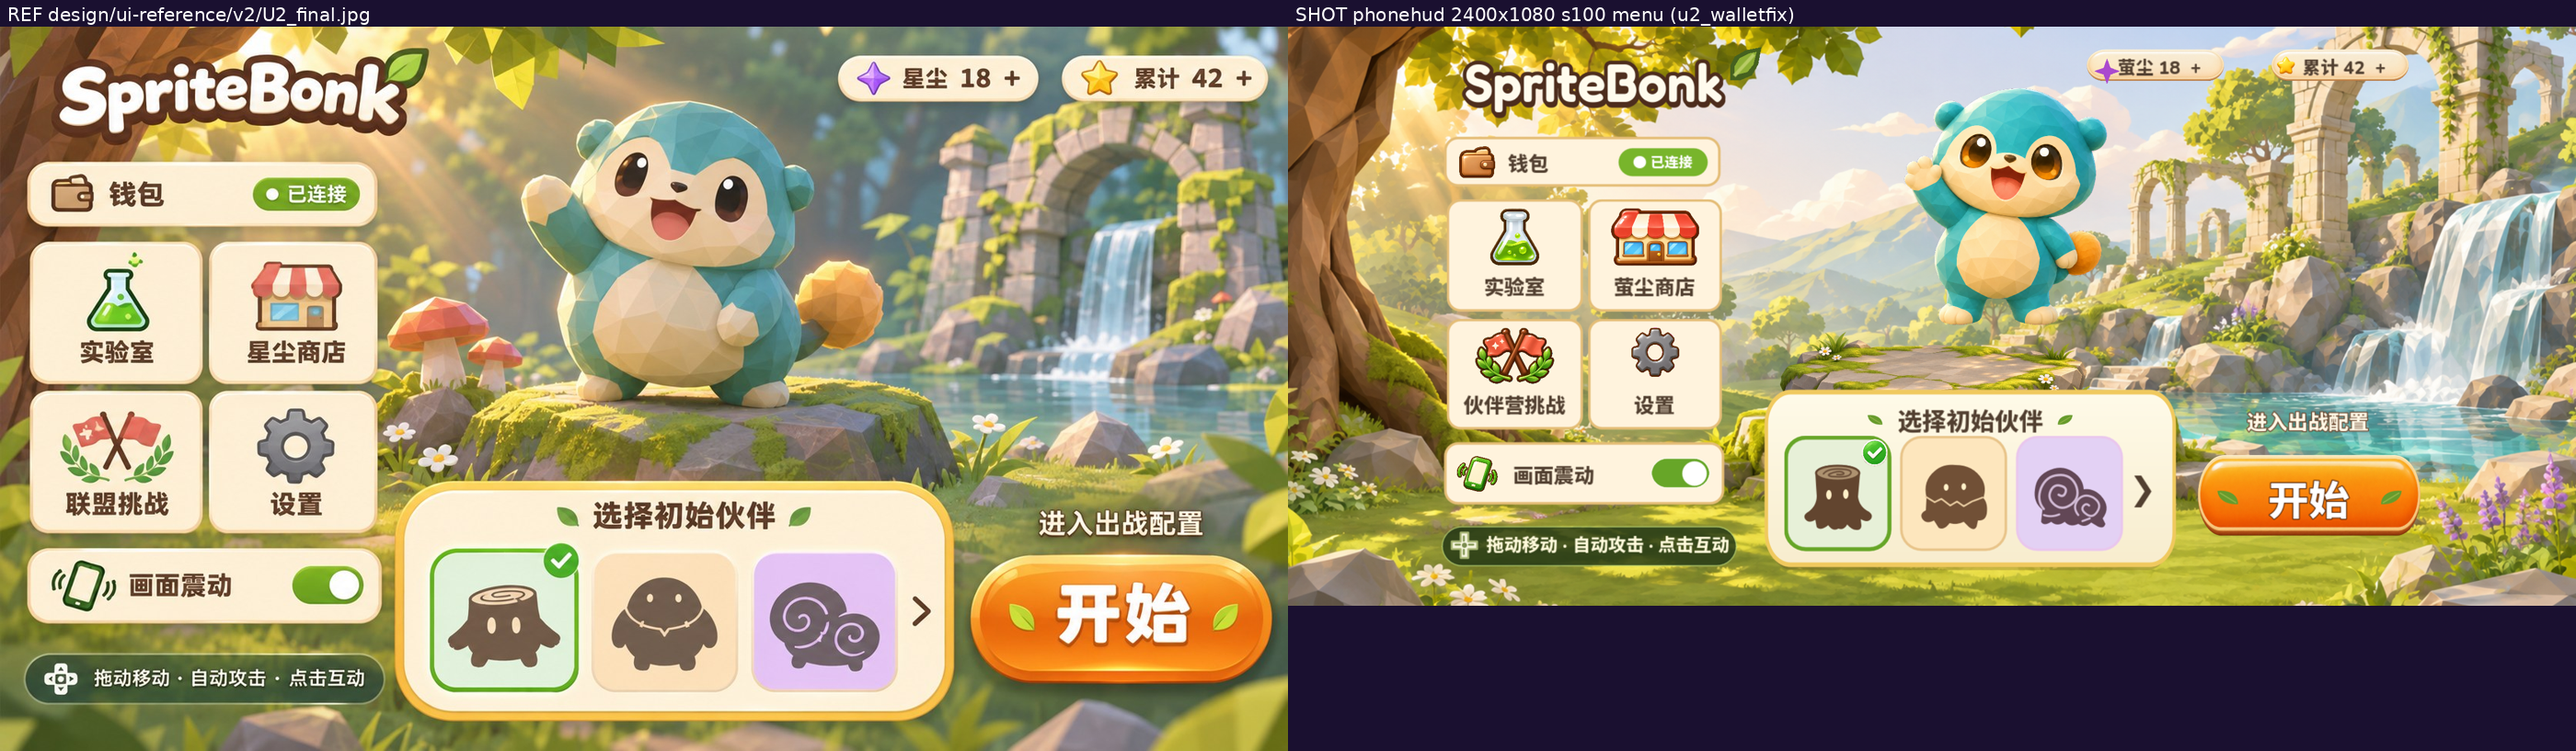
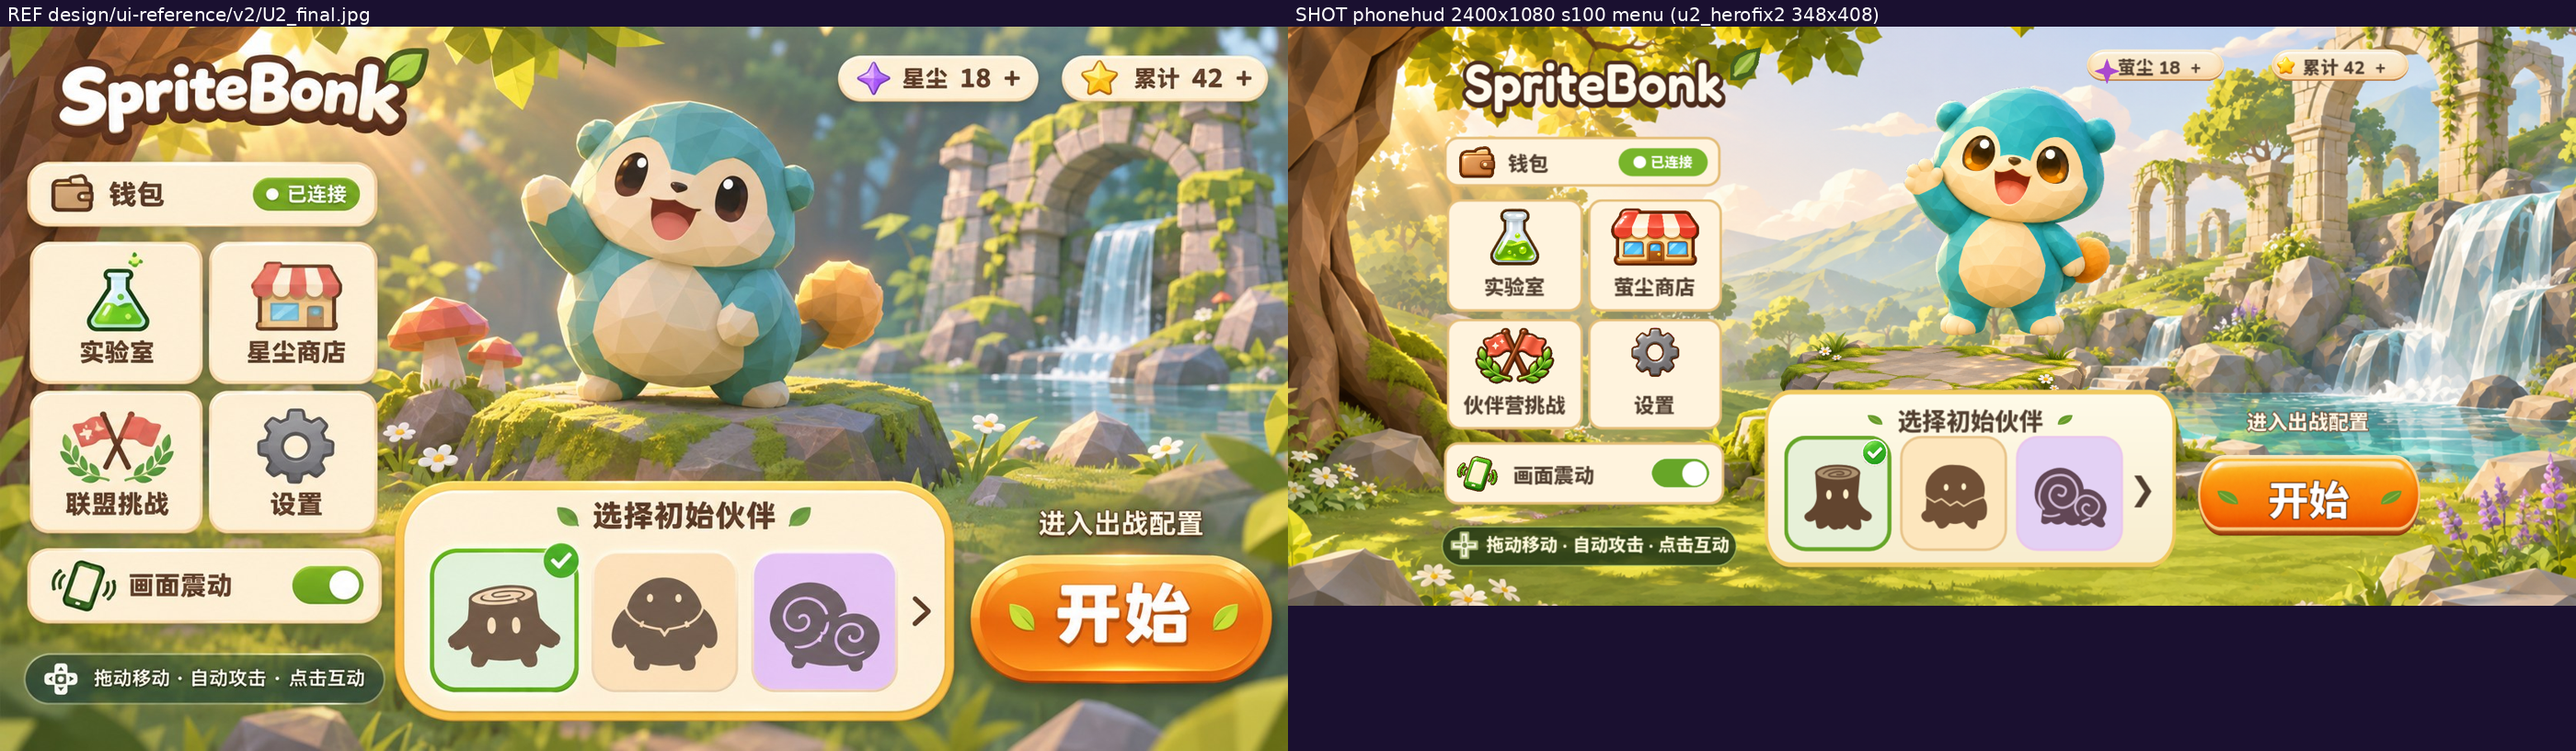
Ledger: U2 herofix2 verdict (hero sized, feet float - bg root cause), bgfix batch launched 06:59

Changed region(s): [[0.7457, 0.1224, 0.8389, 0.459], [0.6525, 0.0, 0.7457, 0.0306]]

diff --git a/design/ui-alignment-progress.md b/design/ui-alignment-progress.md
@@ -416,3 +416,17 @@ U1 已重开，U3 不得开工（见「关闭门」）。第 9 轮：2340 复验
 - 验证批 `Test/u2_herofix2_run.sh` 已于 05:41:08 detached 启动（PID 2321424，起跑时无 Godot 在跑），HEAD 4c2b7c1，`.done` 路径 `Test/out/u2_herofix2.done`：2400 s100 → 2340 s100 双腿，预计约 06:07 完成。367 框的 compare 未重建（同轮即被 supersede，像素量测已记入本节；下轮用 herofix2 新实拍重建双档 compare）。
 - **断点**：下一轮先读 `Test/out/u2_herofix2.done`：两档绿则取新菜单实拍重测主角高（目标 0.400–0.407、顶 ~0.105–0.109、脚 ~0.506–0.516）并确认脚落石台；落地则重建 `compare/U2.png` 与 `compare/U2_2400.png`、逐项亲检后进入 U2 签核决断（余项＝右侧移位设计定性：pill／开始钮视口锚定、托盘适配待验收）；未落地则按实测再调框（先核宽高哪边封顶）。另：下一轮重测 SSH 直连；本轮 NUC 侧提交后 `.git` 反向同步回本机待补（直连中断期间未做）。
 - 本轮提交（align-fix13，已推送）：`4c2b7c1` 主角框 348×408。musen 反向隧道（8901）本轮内自愈重拉（05:37 新 PID 22121 在跑），与本线无关、不另处理。
+
+## U2 主角框验证批裁定：框已落地、脚仍悬空——根因为背景（2026-11-13 06:11–07:00 轮）
+
+- 验证批 `Test/u2_herofix2_run.sh`（HEAD 4c2b7c1，05:41–06:07，`Test/out/u2_herofix2.done`）已 ALLDONE：2400 s100 **1564/0**、2340 s100 **1564/0**，FAIL 0 条。钱包双绿：2400 scale=1.277（失败态）、2340 scale=1.66；'关闭' (1066,451)/(1125,468) 均在象限内。无 Godot 在跑时接续。
+- SSH 直连本轮内多次 flap：06:11 直连断（05:15 同款「Connection closed by UNKNOWN port 65535」）、裸 CONNECT 探针初时 200＋有 banner、后两次超时；musen 跳板时通时断；06:2x 直连恢复、06:4x–06:55 双路反复同断、06:59 直连恢复。出口代理本身健康（example.com 200），故障在 3130 CONNECT→Tailscale 节点段。NUC 未掉线（跳板通时 ping 均通）。工作文件一律放 `~/workspace`，不用 `/tmp`。
+- 主角重测（原始 PNG 行列扫描＋三处脚部放大裁切目检，方法：奶油掩码 R>210/G>180/B>120/R−B>25、框内逐行计数＋足底单列采样）：
+  - 顶：2400 耳尖 112（0.104）、2340 耳尖 124（0.115，薄特征阈值伪差——双腿足底列采样像素逐行一致、无 bob；主体顶均为 160/168 起）；参考 96（0.102）。顶对齐在 0.002–0.013 内。
+  - 足底（目检裁切确认）：左脚 ~558（0.517）、右脚 ~574（0.531）；参考 480/489（0.510/0.520）。主角高（耳尖→低脚）2400 约 0.413–0.428、参考约 0.410–0.418——**348×408 框已把主角尺寸修到与参考一致（±0.01 内），框修复本身落地**。03:45 轮「+6.7%」误读已在 05:11 轮纠正，本轮不再重复。
+  - **脚仍悬空（本轮核心发现）**：三处足底放大裁切均见双脚离地——左脚底与石台面之间约 15–20px 绿糊背景、右脚约 33–35px（含草叶）；台面实测：左脚 x 处 ~573、双脚之间 ~590–595、右脚 x 处 ~607（石台面自左向右下斜约 34px，双脚高差仅 18px，纯平移无法让双脚同时贴合，最优残差约 ±8–10px，与参考自身约 8px 的不对称相当）。
+  - 根因（非主角框）：背景 `v2-background.png`（1672×941）以 `STRETCH_KEEP_ASPECT_COVERED` 盖满手机视口——宽向限幅、缩放约 1.49x；UI 则按 1920×1080 面以约 1.15x 布局。背景纵向特征比 UI 拉伸多约 30%，石台遂比 UI 预期的位置低约 40px。主角脚位本身已与参考对齐（0.517/0.531 vs 0.510/0.520），是背景台面低了，不是主角高了。
+- 修复（`scripts/world.gd` `_build_menu`，P5 专属分支内——`forest` 只在 `_p5_on` 时创建，不动桌面）：`MenuForestBackground` 加 `forest.offset_top = -50.0`（6 行插入，含注释；提交 `337548e`，parse 门 `Test/out/u2_bgfix_parse2.log`：**PARSE_RC=0**，无 SCRIPT ERROR——首轮 parse 日志只有既有 SolanaSDK GDExtension 噪声、未落 rc，故重跑带 rc 版确认）。COVERED 居中：矩形顶沿上提 50px → 纹理整体上移约 25px 屏高，台面 573/607→548/582，左脚埋入坡面约 7–10px、右脚悬约 9px——复刻参考的不对称。
+- `compare/U2.png` 与 `compare/U2_2400.png` 已用 herofix2 新实拍重建（`Test/make_compare_u2.py`，左参考、右实拍、各 1400 宽），随本轮提交一并推送。
+- 双档 compare 逐项亲检（第 9 轮九项全在位：2×2 卡、累计 pill、第三卡「伙伴营挑战」、无红角标、震动行绿开关、单行提示 pill、钱包已连接绿 chip、首伙伴绿边＋勾、橙色开始钮带叶；左列对齐 0.01 内）：**U2 本轮不关闭**。余项：①脚悬空（本轮修背景，待验证批复测）；②右侧移位（顶部 pill 右缘约 0.974 vs 参考 0.861、开始钮右缘约 0.994 vs 0.897 且宽 0.208 vs 0.166——右锚元素跟随 2400 视口而非 1920 菜单面，设计定性待议）；③托盘窄＋右移为已记录的 deliberate 适配（左缘 560、宽 678，为提示留间隔），待用户验收；④背景取景不同（瀑布居右 vs 参考居中、横向更宽——COVERED 宽幅裁切所致，场景内容）；⑤主角姿态差异（挥爪 vs 站立）在 hero 豁免内。
+- **断点**：验证批 `Test/u2_bgfix_run.sh` 已于 06:59:09 detached 启动（PID 2403393，HEAD 337548e），`.done` 路径 `Test/out/u2_bgfix.done`，预计约 07:25 完成；下一轮先读该 .done（须双档 1564/0 且钱包行绿），取新菜单实拍重测脚底与台面（目标：左脚埋入约 7–10px、右脚悬 ≤10px、主角顶/高不变），落地则进入 U2 签核决断（余项＝右侧移位设计定性＋托盘验收）；未落地则按实测再调 offset_top（每 2px offset_top ≈ 1px 台面）。另：NUC `.git` 反向同步回本机仍待补（直连 flap 未做）；Notion 对齐单未动（U2 未关闭）。
